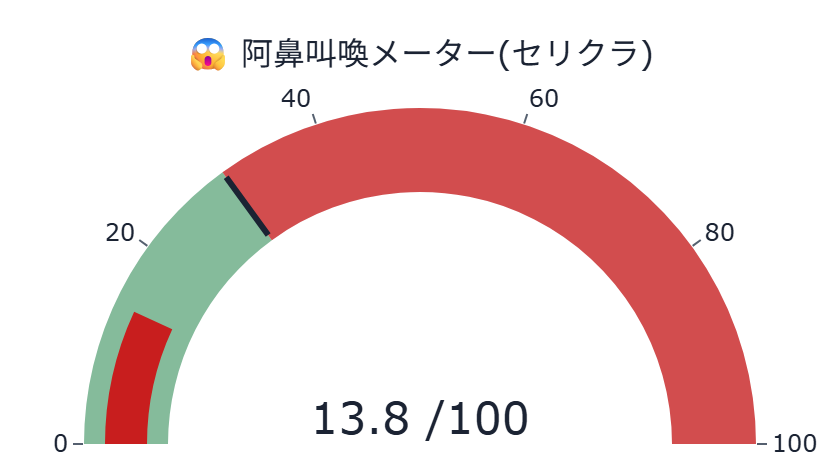
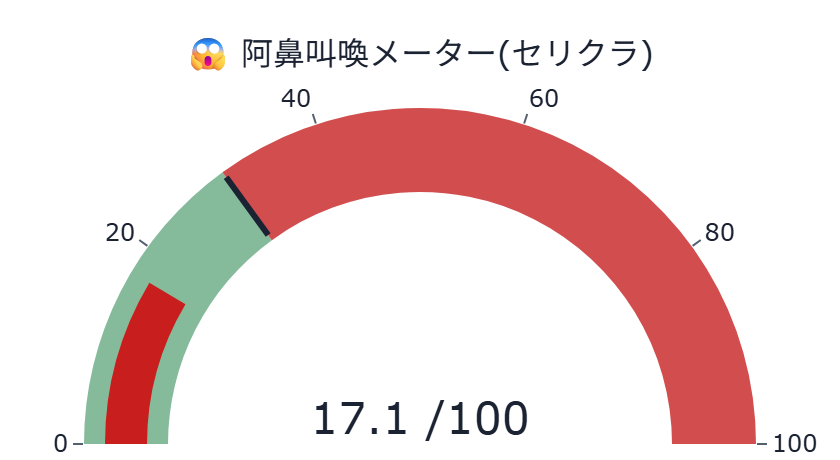
auto: refresh static dashboard (2026-08-25 03:05:22 JST)

Changed region(s): [[0.4024, 0.8522, 0.4952, 0.9435], [0.1548, 0.6087, 0.2167, 0.7304]]

diff --git a/docs/index.html b/docs/index.html
@@ -86,7 +86,7 @@
         <span class="price">50,930円</span>
         <span class="chg" style="color:#8B94A3">—</span>
       </div>
-      <p class="caption">更新時刻: 2026-08-25T02:54:25（データは1分間隔で自動生成され、このページも
+      <p class="caption">更新時刻: 2026-08-25T03:04:22（データは1分間隔で自動生成され、このページも
       60秒毎に自動再読み込みされます）</p>
       
       <p id='visit-count-badge' class='caption' style='display:none'></p>
@@ -105,21 +105,21 @@
           <h3>ボラ・レジーム帯</h3>
           <figure><img src='images/regime_band.png' alt='ボラ・レジーム帯' loading='lazy'></figure>
           <p class='caption'>現在レジーム: 較正中　(BVP=0.186)</p>
-          <div class='metric-row'><div class='metric-card'><div class='metric-label'>PTS（08/25 00:47）</div><div class='metric-value'>49,830円</div><div class='metric-delta' style='color:#1D4ED8'>-2.16%</div></div><div class='metric-card'><div class='metric-label'>米国ADR（08/25 03:01）</div><div class='metric-value'>49,849円</div><div class='metric-delta' style='color:#1D4ED8'>-2.12%</div></div></div><p class='caption'>PTS=東証取引時間外の私設取引システム／ADR=米国預託証券。翌営業日の値動きの参考情報です(それ自体が売買シグナルではありません)。</p>
+          <div class='metric-row'><div class='metric-card'><div class='metric-label'>PTS（08/25 00:47）</div><div class='metric-value'>49,830円</div><div class='metric-delta' style='color:#1D4ED8'>-2.16%</div></div><div class='metric-card'><div class='metric-label'>米国ADR（08/25 03:03）</div><div class='metric-value'>49,929円</div><div class='metric-delta' style='color:#1D4ED8'>-1.97%</div></div></div><p class='caption'>PTS=東証取引時間外の私設取引システム／ADR=米国預託証券。翌営業日の値動きの参考情報です(それ自体が売買シグナルではありません)。</p>
         </div>
       </div>
 
       <h2>🎯 シグナル発火状況（9指標）</h2>
       <p class="caption">掲示板の投稿を集計した9つの指標が、統計的なしきい値を超えたかどうかを示す一覧です。
       「発火」は売買のシグナルではなく、「統計的に見て平常時より偏りが大きい状態」を示す記述的な警告ラベルです。</p>
-      <div class='info-box'>📌 前回の取引日(2026-08-24)からの状態変化: 「そう思う大量票」警戒→OK、「ネームド集中」OK→発火、「他銘柄混入率」警戒→発火、「暴落煽り語彙」警戒→OK、「阿鼻叫喚(セリクラ)」警戒→OK、「話題枯れ」OK→発火</div>
+      <div class='info-box'>📌 前回の取引日(2026-08-24)からの状態変化: 「そう思う大量票」警戒→OK、「ネームド集中」OK→発火、「他銘柄混入率」警戒→発火、「暴落煽り語彙」警戒→OK、「話題枯れ」OK→発火</div>
       <div class="panel"><div class='signal-row'><div class='signal-name'>灼熱メーター(過熱)<div class='signal-desc'>掲示板全体の強気/弱気の偏りと投稿の勢いから算出した「過熱度」の合成指標。</div></div><div class='signal-note'>過熱スコア7.1 (閾値36)</div><div><span style='display:inline-block;border-radius:999px;padding:2px 10px;font-size:.82em;font-weight:600;color:#fff;background:#15803D;white-space:nowrap'>OK (現在値7.10 / 閾値&gt;36)</span></div></div>
 <div class='signal-row'><div class='signal-name'>そう思う大量票<div class='signal-desc'>Yahoo!掲示板の「そう思う」共感ボタンが1投稿に集中して大量に押されているか。</div></div><div class='signal-note'>そう思う最大27票 (95超=過熱)</div><div><span style='display:inline-block;border-radius:999px;padding:2px 10px;font-size:.82em;font-weight:600;color:#fff;background:#15803D;white-space:nowrap'>OK (現在値27 / 閾値&gt;=95)</span></div></div>
 <div class='signal-row'><div class='signal-name'>イナゴ語彙(euphoria)<div class='signal-desc'>「爆上げ」「握力」等、熱狂・便乗を示す語彙が投稿にどれだけ含まれるか。</div></div><div class='signal-note'>euphoria指数1.7/100投稿</div><div><span style='display:inline-block;border-radius:999px;padding:2px 10px;font-size:.82em;font-weight:600;color:#fff;background:#15803D;white-space:nowrap'>OK (現在値1.70 / 閾値&gt;=5.5/100投稿)</span></div></div>
 <div class='signal-row'><div class='signal-name'>ネームド集中<div class='signal-desc'>特定の常連投稿者(ハッシュ化ID)に投稿が偏っていないか(少数の声が目立ちすぎていないか)。</div></div><div class='signal-note'>上位5人シェア12%</div><div><span style='display:inline-block;border-radius:999px;padding:2px 10px;font-size:.82em;font-weight:600;color:#fff;background:#C81E1E;white-space:nowrap'>発火 (現在値0.12 / 閾値&gt;=0.1)</span></div></div>
-<div class='signal-row'><div class='signal-name'>他銘柄混入率<div class='signal-desc'>本銘柄の掲示板で他の銘柄コードへの言及がどれだけ多いか(関心が他へ移りつつあるサイン)。</div></div><div class='signal-note'>他銘柄言及15% (関心離散のサイン)</div><div><span style='display:inline-block;border-radius:999px;padding:2px 10px;font-size:.82em;font-weight:600;color:#fff;background:#C81E1E;white-space:nowrap'>発火 (現在値0.15 / 閾値&gt;=0.11)</span></div></div>
-<div class='signal-row'><div class='signal-name'>暴落煽り語彙<div class='signal-desc'>「暴落」「終わった」等、悲観・煽りを示す語彙が投稿にどれだけ含まれるか。</div></div><div class='signal-note'>煽り指数3.2/100投稿</div><div><span style='display:inline-block;border-radius:999px;padding:2px 10px;font-size:.82em;font-weight:600;color:#fff;background:#15803D;white-space:nowrap'>OK (現在値3.20 / 閾値&gt;=5.0/100投稿)</span></div></div>
-<div class='signal-row'><div class='signal-name'>阿鼻叫喚(セリクラ)<div class='signal-desc'>株価が安値圏にある中で悲観語彙が急増しているか(セリングクライマックスの兆候)。</div></div><div class='signal-note'>阿鼻叫喚スコア13.8 安値圏外</div><div><span style='display:inline-block;border-radius:999px;padding:2px 10px;font-size:.82em;font-weight:600;color:#fff;background:#15803D;white-space:nowrap'>OK (現在値13.80 / 閾値&gt;30)</span></div></div>
+<div class='signal-row'><div class='signal-name'>他銘柄混入率<div class='signal-desc'>本銘柄の掲示板で他の銘柄コードへの言及がどれだけ多いか(関心が他へ移りつつあるサイン)。</div></div><div class='signal-note'>他銘柄言及14% (関心離散のサイン)</div><div><span style='display:inline-block;border-radius:999px;padding:2px 10px;font-size:.82em;font-weight:600;color:#fff;background:#C81E1E;white-space:nowrap'>発火 (現在値0.14 / 閾値&gt;=0.11)</span></div></div>
+<div class='signal-row'><div class='signal-name'>暴落煽り語彙<div class='signal-desc'>「暴落」「終わった」等、悲観・煽りを示す語彙が投稿にどれだけ含まれるか。</div></div><div class='signal-note'>煽り指数3.6/100投稿</div><div><span style='display:inline-block;border-radius:999px;padding:2px 10px;font-size:.82em;font-weight:600;color:#fff;background:#15803D;white-space:nowrap'>OK (現在値3.60 / 閾値&gt;=5.0/100投稿)</span></div></div>
+<div class='signal-row'><div class='signal-name'>阿鼻叫喚(セリクラ)<div class='signal-desc'>株価が安値圏にある中で悲観語彙が急増しているか(セリングクライマックスの兆候)。</div></div><div class='signal-note'>阿鼻叫喚スコア17.1 安値圏外</div><div><span style='display:inline-block;border-radius:999px;padding:2px 10px;font-size:.82em;font-weight:600;color:#fff;background:#C2570B;white-space:nowrap'>警戒 (現在値17.10 / 閾値&gt;30)</span></div></div>
 <div class='signal-row'><div class='signal-name'>話題枯れ<div class='signal-desc'>過去の平均と比べて本日の投稿数が著しく少ないか(閑散・関心低下のサイン)。</div></div><div class='signal-note'>投稿数z=-1.3 (負=閑散)</div><div><span style='display:inline-block;border-radius:999px;padding:2px 10px;font-size:.82em;font-weight:600;color:#fff;background:#C81E1E;white-space:nowrap'>発火 (現在値-1.30 / 閾値z&lt;-1)</span></div></div>
 <div class='signal-row'><div class='signal-name'>投稿サージ<div class='signal-desc'>過去の平均と比べて本日の投稿数が著しく多いか(急な注目集中のサイン)。</div></div><div class='signal-note'>投稿数z=-1.3 (量→ボラ予測が文献の主結果)</div><div><span style='display:inline-block;border-radius:999px;padding:2px 10px;font-size:.82em;font-weight:600;color:#fff;background:#15803D;white-space:nowrap'>OK (現在値-1.30 / 閾値z&gt;2)</span></div></div></div>
       <p class="caption">※研究・エンタメ用途・未検証。売買シグナルではありません。
@@ -150,24 +150,22 @@
       
 
       <h2>🤖 AI考察</h2>
-      <div class='metric-row'><div class='metric-card'><div class='metric-label'>株価</div><div class='metric-value'>50,930円</div><div class='metric-delta'>+0円</div></div><div class='metric-card'><div class='metric-label'>強気比率</div><div class='metric-value'>35.2%</div><div class='metric-delta'>-1.1pt</div></div><div class='metric-card'><div class='metric-label'>弱気比率</div><div class='metric-value'>54.7%</div><div class='metric-delta'>+1.1pt</div></div></div><p class='caption'>前回集計(2026-08-25T02:44:19)との比較</p>
-      <div class='ai-box'>本件は掲示板の集計センチメントデータに基づく分析であり、投資助言ではありません。<br>
+      <div class='metric-row'><div class='metric-card'><div class='metric-label'>株価</div><div class='metric-value'>50,930円</div><div class='metric-delta'>+0円</div></div><div class='metric-card'><div class='metric-label'>強気比率</div><div class='metric-value'>34.8%</div><div class='metric-delta'>-0.4pt</div></div><div class='metric-card'><div class='metric-label'>弱気比率</div><div class='metric-value'>55.4%</div><div class='metric-delta'>+0.7pt</div></div></div><p class='caption'>前回集計(2026-08-25T02:54:25)との比較</p>
+      <div class='ai-box'>本資料は掲示板の集計センチメントデータに基づく分析であり、投資助言ではありません。<br>
 <br>
-キオクシアホールディングス（285A）について、寄り付き前の最新データを基にした客観的な状況をまとめます。<br>
+キオクシアホールディングス（285A）について、寄り付き前の現時点における掲示板の集計データを整理します。前営業日の終値は50,930.0円となっており、直近の取引日からの推移を見ると、価格や強気・弱気の比率に一定の変動が見られます。<br>
 <br>
-前営業日の終値は50,930.0円となっており、直近の取引日からの推移を見ると、価格や強気・弱気比率ともに一定の変動を見せています。特に8月17日以降の推移では、強気と弱気の比率が拮抗する場面も見られましたが、前営業日の終値時点では弱気比率（57.9%）が強気比率（33.3%）を上回る結果となっています。<br>
+掲示板内のセンチメントについては、強気比率が34.8％に対し、弱気比率が55.4％と、弱気な見方が優勢な状況です。前回集計時点（約8分前）と比較すると、価格は変わらないものの、強気比率は0.4ポイント低下し、逆に弱気比率は0.7ポイント上昇しており、短時間でやや弱気な傾向が強まったことが見て取れます。<br>
 <br>
-直近数分間の集計変化を確認すると、価格は変わらないものの、強気比率は1.1ポイント低下し、逆に弱気比率は1.1ポイント上昇しています。投稿数はわずかに増加しており、短時間でのセンチメントの推移としては、やや弱気寄りの傾向が継続していることが見て取れます。<br>
+投稿量に関する指標では、話題枯れが「発火」しており、統計的に見て投稿数が閑散としている状態です。また、ネームド集中や他銘柄混入率も「発火」しており、特定のユーザーへの集中や関心の分散といった統計的な偏りが示されています。一方で、過熱度スコアは7.1と低く、灼熱メーターやイナゴ語彙などの指標は平常範囲内（OK）に留まっています。総悲観度スコアは17.1であり、阿鼻叫喚の指標が「警戒」水準にあることから、一部で厳しい見方があることが示唆されます。<br>
 <br>
-掲示板の統計的なシグナル状況については、いくつかの指標で「発火」が確認されています。「ネームド集中」および「他銘柄混入率」がしきい値を超えており、特定の層による関心の偏りや、話題の拡散・離散の兆候が含まれている可能性があります。また、「話題枯れ」も発火しており、投稿数の統計的な推移から見て、一定の閑散状態にあることが示唆されています。一方で、過熱度や暴落煽りに関する指標は「OK」の範囲内に留まっています。<br>
+ボラティリティのレジーム帯については、現在「calibrating（較正中）」となっており、現在の値動きの荒さを示す指標を確定させる過程にあります。また、取引時間外の動向として、PTSでは前日終値比マイナス2.16％、米国ADR円換算では同マイナス2.34％と、市場環境によっては弱含みの動きが確認されています。<br>
 <br>
-ボラティリティについては、現在は「calibrating（較正中）」のレジームにあり、BVP（ボラティリティ指標）は0.186となっています。これは現在の値動きの荒さや変動幅を確定させるための調整段階にあることを示しています。<br>
-<br>
-なお、取引時間外の動向として、PTSでは前日終値比で-2.16%、米国ADR円換算では-2.48%とマイナスの動きを見せています。これらは翌営業日の寄り付きに向けた参考情報となります。</div><p class='caption'>生成時刻: 2026-08-25T02:54:25</p>
+総じて、掲示板上では弱気な意見が数的に多くを占める一方で、投稿自体は閑散としており、特定の層による発言や他銘柄への関心混在といった統計的な特徴が見られる状態です。</div><p class='caption'>生成時刻: 2026-08-25T03:04:22</p>
 
       <hr style="border:none;border-top:1px solid var(--border);margin:2rem 0 1rem">
       <p class="caption">⚠ 本情報は掲示板投稿を統計的に集計したものであり、投資助言ではありません。個別の投稿内容は含まれていません。研究・エンタメ用途です。</p>
-      <footer>生成: generate_static_dashboard.py（2026-08-25T03:03:27） /
+      <footer>生成: generate_static_dashboard.py（2026-08-25T03:05:09） /
       画像バックエンド: plotly+kaleido</footer>
     </div>
     <script>(function(){var url="https://script.google.com/macros/s/AKfycbwgSSGQ2n56ohmIYKlNDA1Xe3D8hd3GJbD0U90L4DGtXdb8pqrPokNMHJWjvN1__7bE/exec";var KEY='bbs_visit_counted';var already=sessionStorage.getItem(KEY);var action=already?'read':'hit';var ctrl=(typeof AbortController!=='undefined')?new AbortController():null;var timer=ctrl?setTimeout(function(){ctrl.abort();},5000):null;fetch(url+'?action='+action,{signal:ctrl?ctrl.signal:undefined}).then(function(r){if(timer)clearTimeout(timer);return r.json();}).then(function(data){if(!already)sessionStorage.setItem(KEY,'1');if(data&&typeof data.count==='number'){var el=document.getElementById('visit-count-badge');if(el){el.textContent='\u{1F440} \u7d2f\u8a08\u95b2\u89a7\u6570: '+data.count.toLocaleString();el.style.display='';}}}).catch(function(e){if(timer)clearTimeout(timer);console.warn('visit counter fetch failed (fail-soft):',e);});})();</script></body></html>
